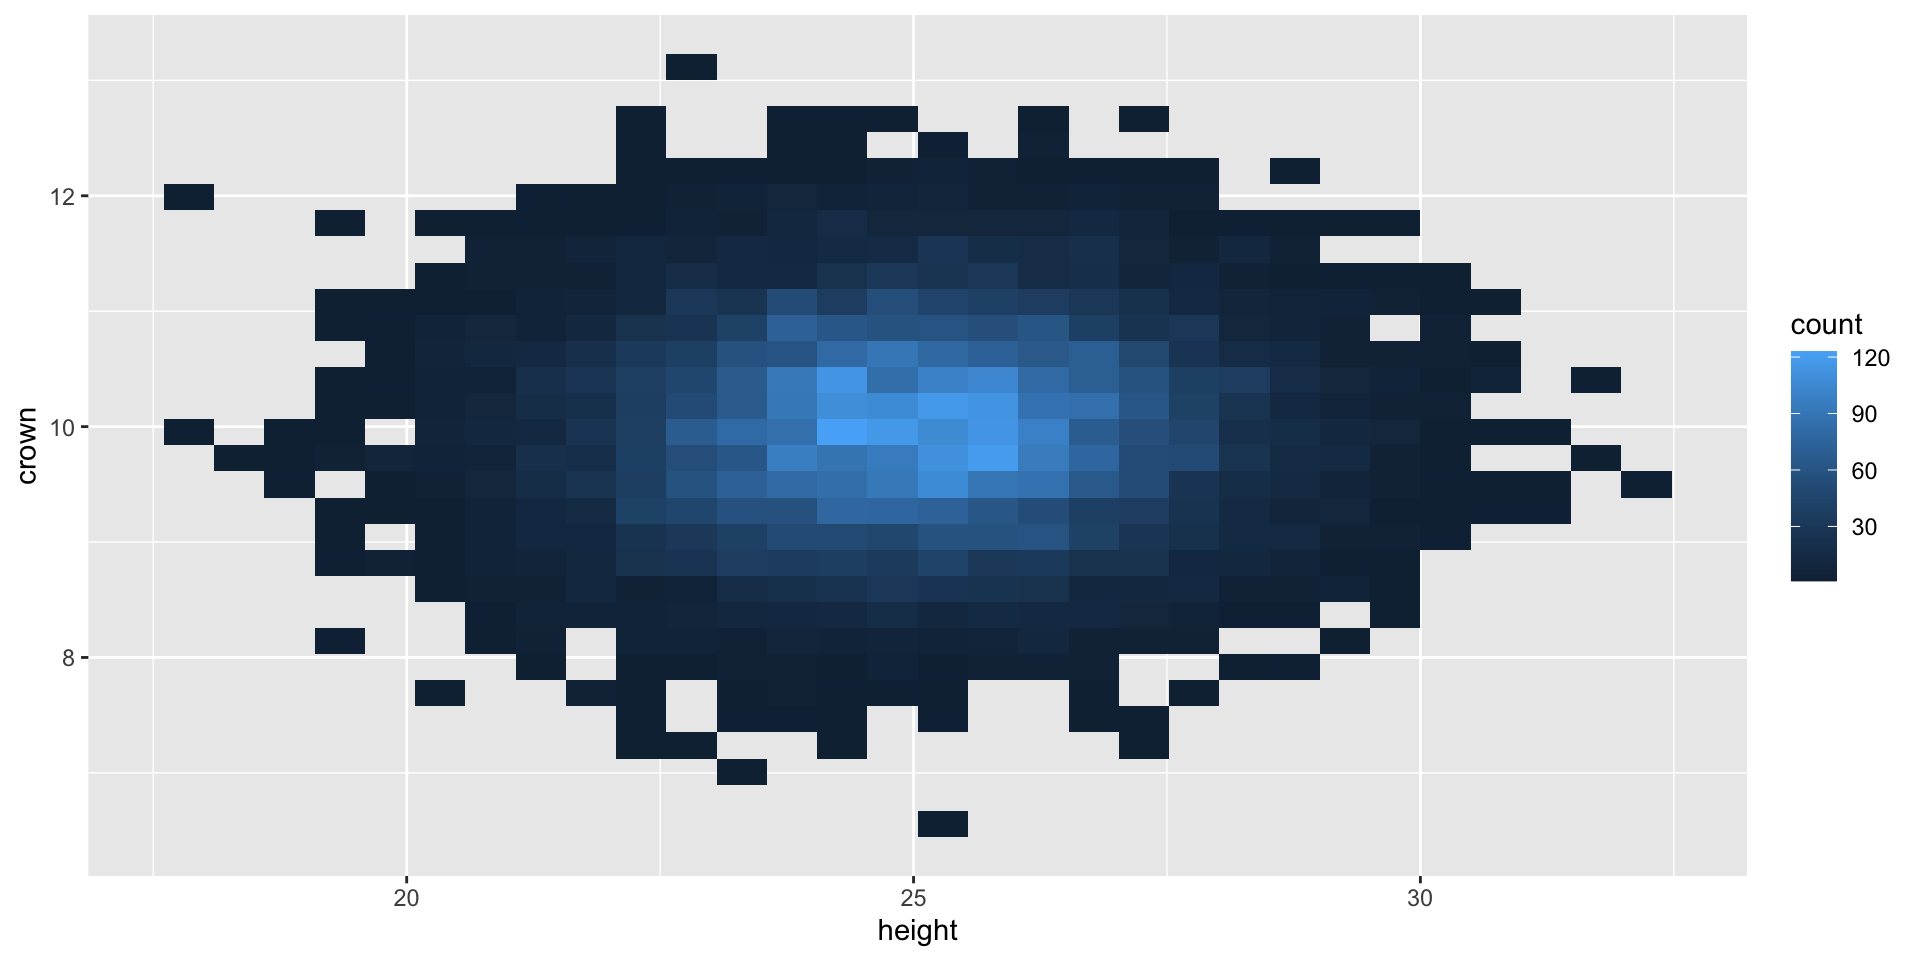
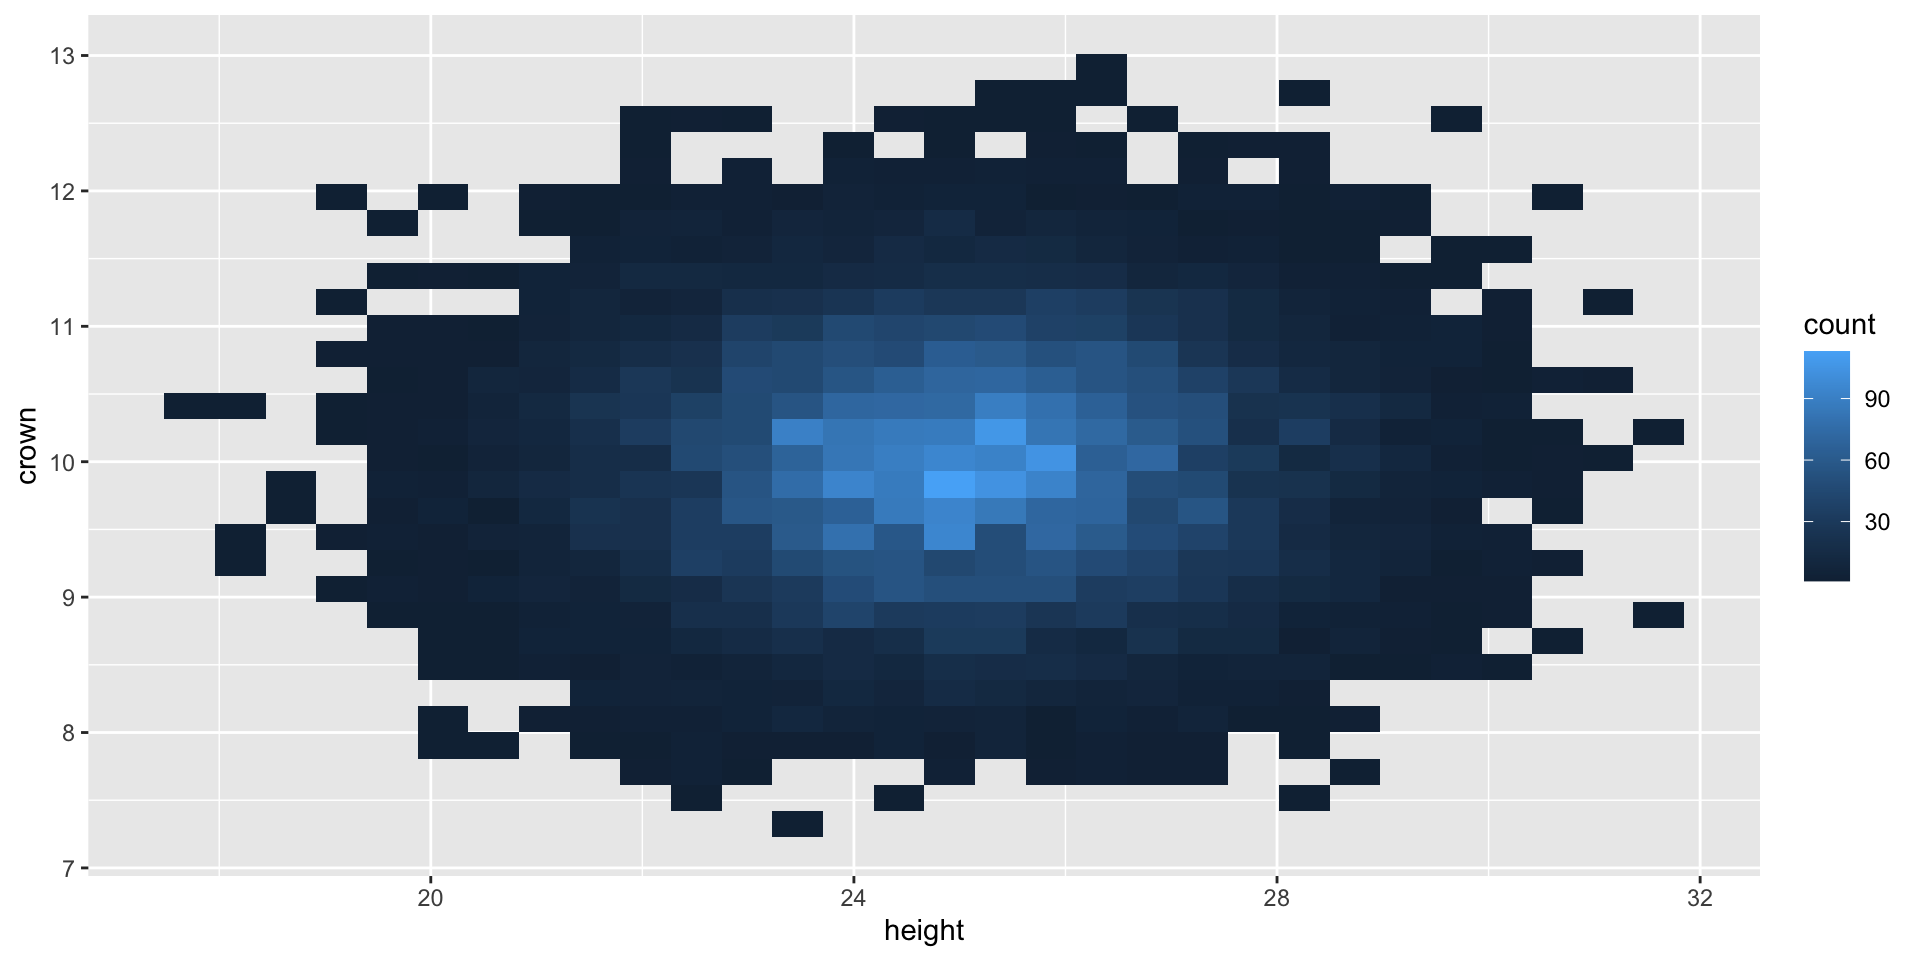
added opening and closing slides

diff --git a/innovative_graphs.html b/innovative_graphs.html
@@ -402,9 +402,14 @@ S.Kelly | Scholar Support &amp; Data Services
 </div>
 
 </section>
-<section id="opening-slide" class="slide level2">
-<h2>Opening Slide</h2>
-</section>
+<section id="going-beyond-basics" class="slide level2">
+<h2>Going Beyond Basics</h2>
+
+<img data-src="ugly_scatterplot.png" class="r-stretch"></section>
+<section id="going-beyond-basics-1" class="slide level2">
+<h2>Going Beyond Basics</h2>
+
+<img data-src="better_than_scatter.png" class="r-stretch"></section>
 <section id="loading-ggplot2" class="slide level2">
 <h2>Loading ggplot2</h2>
 <p>You can load ggplot2 directly but it’s often more advantageous to load the entire tidyverse suite of packages.</p>
@@ -423,12 +428,12 @@ S.Kelly | Scholar Support &amp; Data Services
 <span id="cb2-4"><a href=""></a><span class="fu">head</span>(maples)</span></code><button title="Copy to Clipboard" class="code-copy-button"><i class="bi"></i></button></pre></div>
 <div class="cell-output cell-output-stdout">
 <pre><code>    height     crown
-1 25.22631  8.765132
-2 29.02397 10.225582
-3 24.52614  8.510103
-4 26.06808 10.441460
-5 25.92285 10.098236
-6 23.89522 10.218457</code></pre>
+1 26.36262 10.760736
+2 23.93630 10.197841
+3 22.85755  9.847529
+4 25.72782 10.643511
+5 24.33570 10.685918
+6 22.39181  8.356193</code></pre>
 </div>
 </div>
 </section>
@@ -710,9 +715,11 @@ S.Kelly | Scholar Support &amp; Data Services
 
 </div>
 <img data-src="innovative_graphs_files/figure-revealjs/unnamed-chunk-27-1.png" width="960" class="r-stretch"></section>
-<section id="closing-slide-with-qr-code" class="slide level2">
-<h2>Closing Slide with QR code</h2>
-<div class="quarto-auto-generated-content">
+<section id="thank-you-for-coming-today" class="slide level2">
+<h2>Thank you for Coming Today</h2>
+<p>This is the first time this particular workshop has been offered and we’d appreciate your feedback!</p>
+
+<img data-src="InnovativeGraphsFeedback.png" class="quarto-figure quarto-figure-center r-stretch" width="150"><div class="quarto-auto-generated-content">
 <div class="footer footer-default">
 <p>S.Kelly | Inovative Graphs | Spring 2026</p>
 </div>
